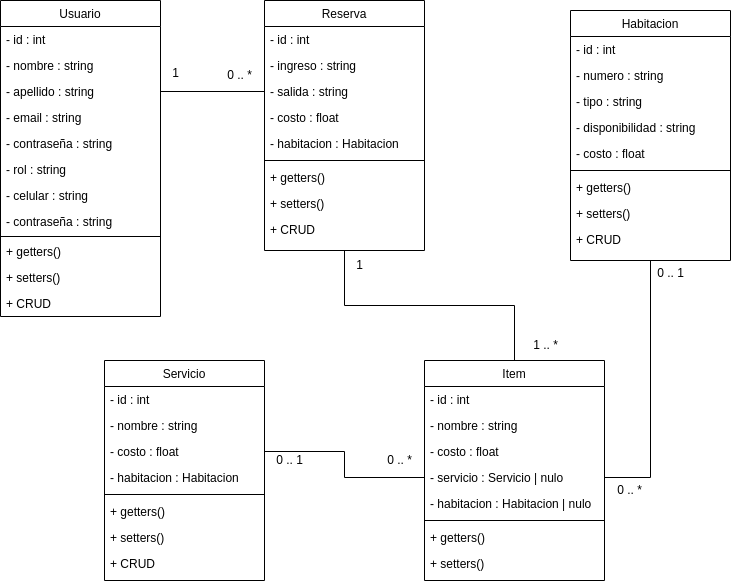
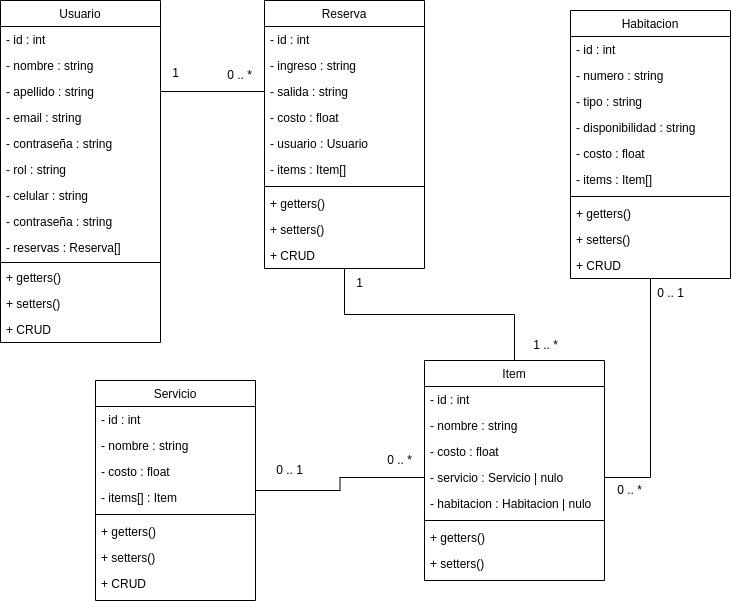
Diagrama de arquitectura

diff --git a/Diagrama_de_arquitectura.md b/Diagrama_de_arquitectura.md
@@ -1,0 +1,7 @@
+# Diagrama de arquitectura
+
+![diagramaDeArquitectura](Imagenes/Diagrama_de_arquitectura.png)
+
+## Diagrama expandido
+
+![diagramaDeArquitecturaExpandido](Imagenes/Diagrama_de_arquitectura_expandido.png)
